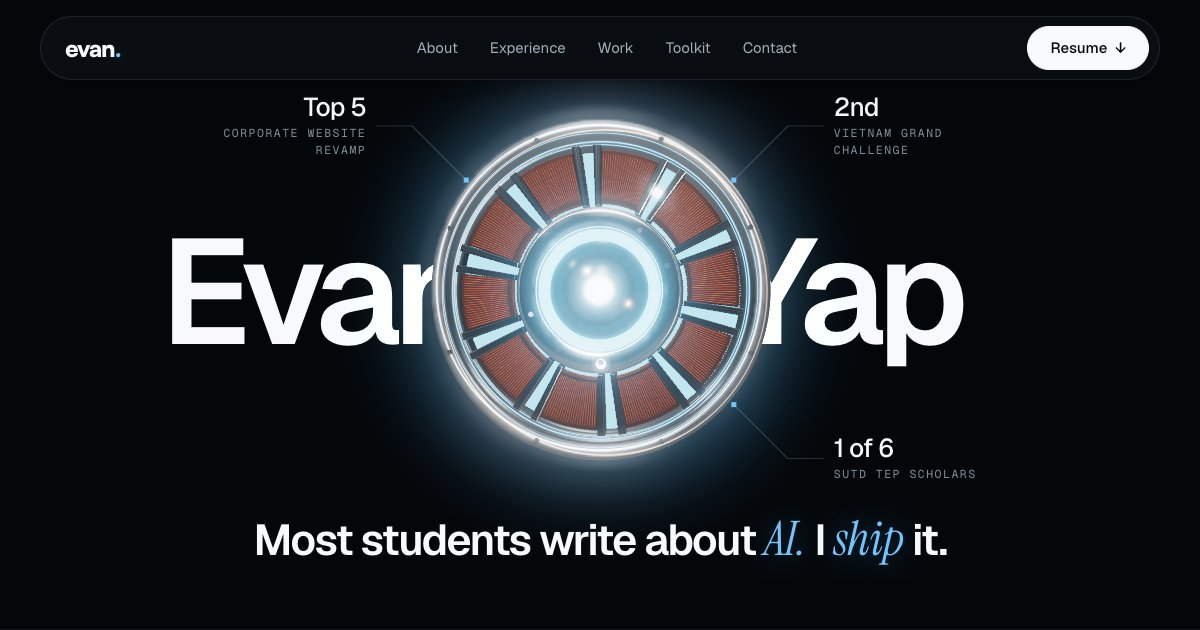
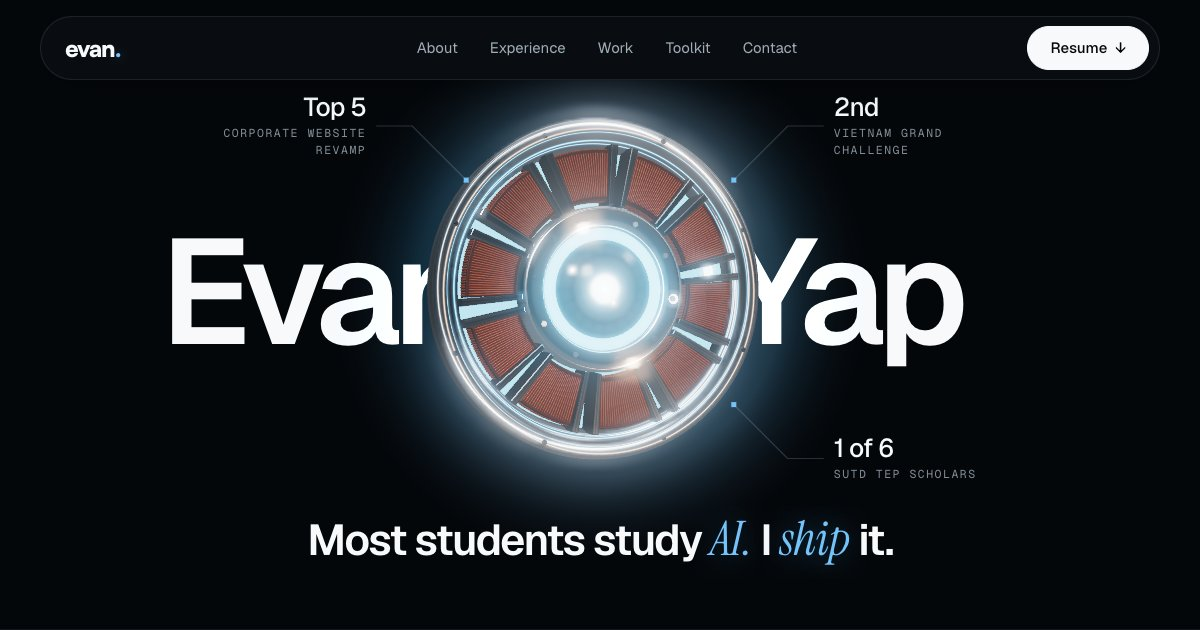
content: headline reads "Most students study AI. I ship it."
Updates the hero, the share text, its alt text, the share image and the
title check.

Changed region(s): [[0.3392, 0.181, 0.6475, 0.7238], [0.2158, 0.8143, 0.8017, 0.9048]]

diff --git a/index.html b/index.html
@@ -10,14 +10,14 @@
   <meta name="theme-color" content="#04070a">
   <meta property="og:title" content="Evan Yap | Software and AI engineering">
   <meta property="og:description"
-    content="Most students write about AI. I ship it. Top 5 at the Corporate Website Revamp Challenge, 2nd place at a regional hackathon.">
+    content="Most students study AI. I ship it. Top 5 at the Corporate Website Revamp Challenge, 2nd place at a regional hackathon.">
   <meta property="og:type" content="website">
   <meta property="og:url" content="https://www.evanyap.com/">
   <meta property="og:image" content="https://www.evanyap.com/img/og.jpg">
   <meta property="og:image:width" content="1200">
   <meta property="og:image:height" content="630">
   <meta property="og:image:alt"
-    content="Evan Yap's portfolio: his name tucked behind a glowing arc reactor, over the headline “Most students write about AI. I ship it.”">
+    content="Evan Yap's portfolio: his name tucked behind a glowing arc reactor, over the headline “Most students study AI. I ship it.”">
   <meta name="twitter:card" content="summary_large_image">
   <link rel="canonical" href="https://www.evanyap.com/">
   <link rel="icon"
@@ -109,7 +109,7 @@
       <div class="reactor__panel">
         <p class="reactor__status mono" data-reactor-status aria-hidden="true"></p>
       </div>
-      <h1 class="hero__title" id="hero-title">Most students write about <span class="serif">AI.</span>
+      <h1 class="hero__title" id="hero-title">Most students study <span class="serif">AI.</span>
         I <span class="serif">ship</span> it.</h1>
       <p class="hero__lede">Engineering Systems and Design student at SUTD and AI Business Consultant Intern at Univers.
         Looking for software engineering and AI internships.</p>

diff --git a/tests/checks.js b/tests/checks.js
@@ -384,7 +384,7 @@ export async function copy(win, frame) {
 // screen reader gets must read exactly as written, nothing in a heading may
 // be aria-hidden, and once a title has been seen every word is in place.
 const TITLES = {
-  'hero-title': 'Most students write about AI. I ship it.',
+  'hero-title': 'Most students study AI. I ship it.',
   'about-title': 'About me',
   'experience-title': 'My experience',
   'work-title': 'Selected work',
